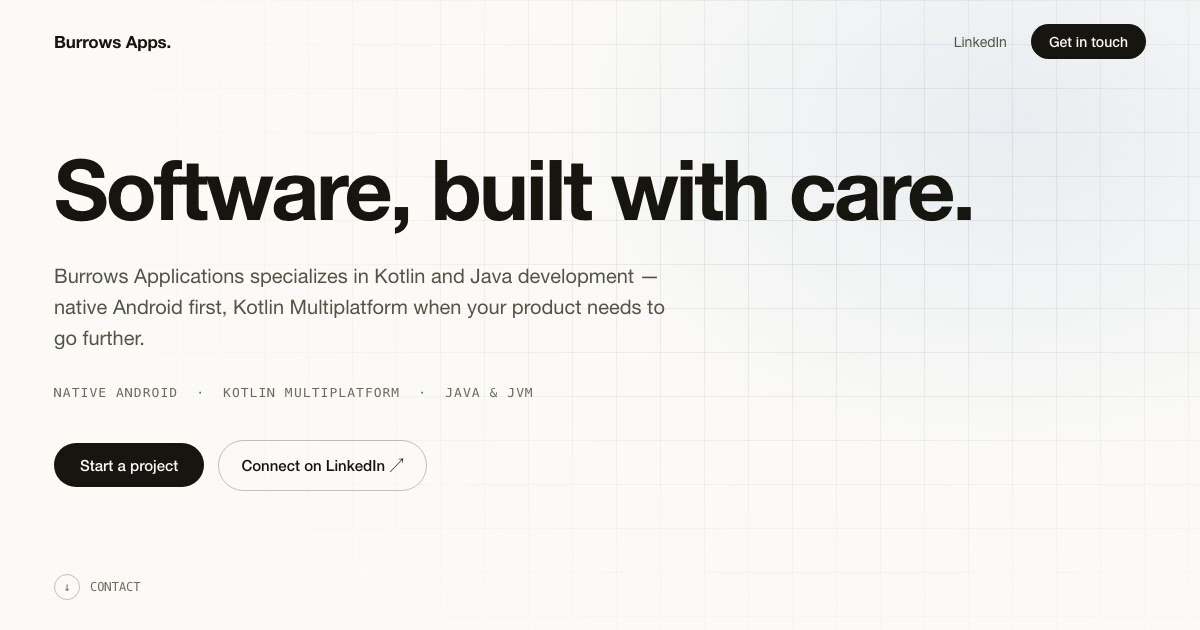
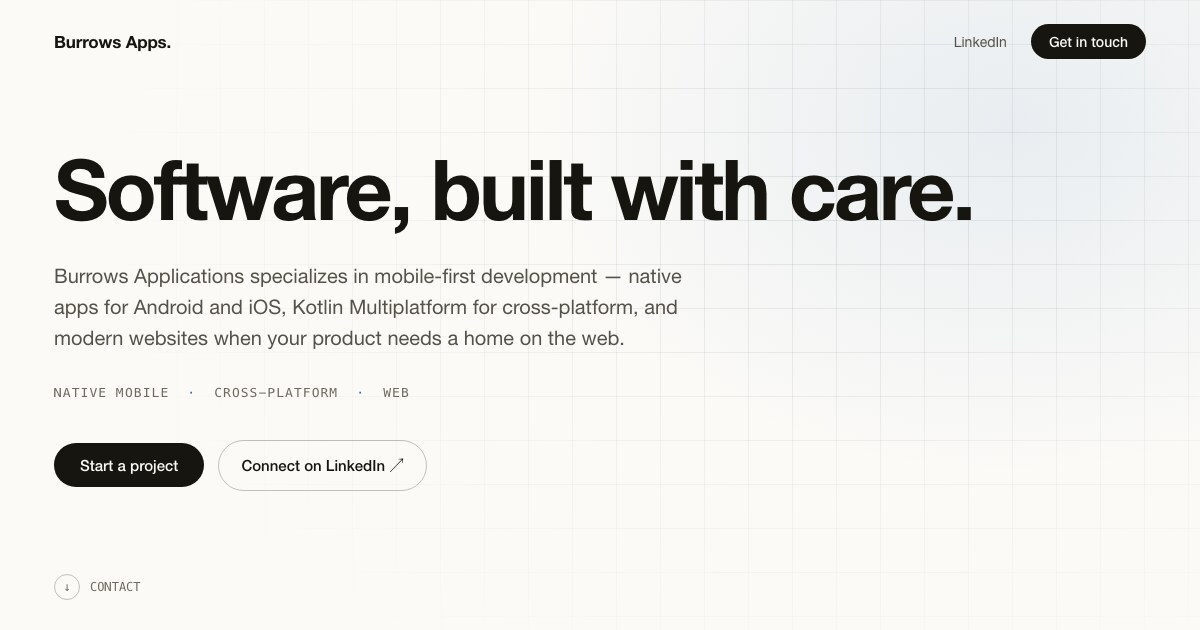
updates

diff --git a/privacy.html b/privacy.html
@@ -53,55 +53,144 @@
     <div class="page-inner">
       <div class="eyebrow">LEGAL</div>
       <h1>Privacy Policy.</h1>
-      <p class="page-updated">LAST REVISED · JULY 7, 2026</p>
+      <p class="page-updated">LAST REVISED · JULY 8, 2026</p>
 
-      <p>Burrows Applications ("we", "us") builds mobile applications and this website,
-        burrowsapps.com (the "Site"). This policy explains what information the Site and our
-        published apps (the "Apps") handle, and how. The short version: we collect as little as
-        possible, and we don't sell personal information.</p>
+      <h2>1. Introduction and scope</h2>
+      <p>Burrows Applications ("Burrows Applications," "we," "us," or "our") respects your
+        privacy and is committed to protecting it through our compliance with this Privacy
+        Policy (the "Policy"). This Policy describes the types of information we may collect,
+        receive, or process, and our practices for using, maintaining, protecting, and
+        disclosing that information, in connection with: (a) the website located at
+        burrowsapps.com, including any subdomains thereof (collectively, the "Site"); (b) any
+        and all software products, mobile applications, desktop applications, developer tools,
+        libraries, utilities, and other software we develop, publish, distribute, or maintain,
+        on any platform or through any distribution channel, whether now existing or hereafter
+        created (collectively, the "Products"); and (c) any related services, features, or
+        content we provide (together with the Site and the Products, the "Services").</p>
+      <p>By accessing or using any of the Services, you acknowledge that you have read and
+        understood this Policy and consent to the practices described herein. If you do not
+        agree with this Policy, your sole and exclusive remedy is to discontinue all access to
+        and use of the Services. This Policy does not apply to information collected by any
+        third party, including through any application, content, or website that may link to or
+        be accessible from the Services.</p>
 
-      <h2>What the Site collects</h2>
+      <h2>2. Information we collect through the Site</h2>
       <ul>
-        <li><strong>Analytics.</strong> The Site uses Google Analytics and Google Tag Manager to
-          understand traffic — pages viewed, approximate location, browser and device type. These
-          services set cookies and are governed by
+        <li><strong>Analytics data.</strong> The Site uses Google Analytics and Google Tag
+          Manager to collect usage information, including but not limited to pages viewed,
+          referring pages, approximate geographic location, browser type, operating system, and
+          device characteristics. These services may set and access cookies and similar tracking
+          technologies on your device, and their collection and processing of information is
+          governed by
           <a href="https://policies.google.com/privacy" target="_blank" rel="noopener">Google's
           privacy policy</a>.</li>
-        <li><strong>Contact form.</strong> If you use the contact form, the name, email address,
-          and message you enter are delivered to our inbox through a Cloudflare Worker. We use
-          them only to respond to you — they are not added to any mailing list or shared with
-          anyone else.</li>
+        <li><strong>Contact form submissions.</strong> If you voluntarily submit information
+          through the Site's contact form, we collect the name, email address, and message
+          contents you provide. Submissions are transmitted to our inbox by means of a
+          Cloudflare Worker and are processed subject to Cloudflare's applicable terms and
+          privacy documentation. We use such submissions solely to respond to and administer
+          your inquiry; they are not added to any marketing or mailing list and are not
+          disclosed to any third party except as set forth in Section 5.</li>
       </ul>
 
-      <h2>What the Apps collect</h2>
-      <p>Our Android apps are designed to run entirely on your device. They don't require an
-        account and don't collect personal information. Where an individual app has additional
-        data practices, they are disclosed in that app's Google Play listing and data-safety
-        section.</p>
+      <h2>3. Information we collect through the Products</h2>
+      <p>The Products are designed as a general matter to operate locally on your device. Unless
+        expressly disclosed otherwise for a specific Product, the Products do not require the
+        creation of an account, do not collect personal information, and do not transmit
+        personal information to us or to any third party at our direction. Where an individual
+        Product engages in additional data practices, those practices are disclosed in the
+        documentation, store listing, or data-safety disclosure applicable to that Product
+        (including, for Android applications, the applicable Google Play listing and Data
+        safety section), which disclosures are incorporated into this Policy by reference with
+        respect to that Product.</p>
+      <p>Please note that the platforms and distribution channels through which the Products are
+        made available (including, without limitation, Google Play) may independently collect
+        technical, diagnostic, installation, and crash information under their own terms and
+        privacy policies. We may receive such information only in aggregated or de-identified
+        form, and we do not control, and disclaim responsibility for, the collection practices
+        of such platforms.</p>
 
-      <h2>What we don't do</h2>
-      <ul>
-        <li>We don't sell personal information.</li>
-        <li>We don't run third-party advertising on the Site.</li>
-        <li>We don't ask for more data than a feature needs.</li>
-      </ul>
+      <h2>4. How we use information</h2>
+      <p>We use the information described in this Policy to: (a) respond to your inquiries and
+        provide requested support; (b) operate, maintain, analyze, and improve the Services;
+        (c) monitor and protect the security, integrity, and availability of the Services;
+        (d) comply with applicable law, regulation, legal process, or governmental request; and
+        (e) enforce our rights and agreements. Where required by applicable law, we rely on one
+        or more of the following legal bases for processing: your consent, our legitimate
+        interests in operating and improving the Services, and compliance with legal
+        obligations.</p>
 
-      <h2>Retention</h2>
-      <p>Messages sent through the contact form are kept only as long as needed to handle your
-        inquiry. Analytics data is retained according to Google Analytics' standard retention
-        settings.</p>
+      <h2>5. Disclosure of information</h2>
+      <p>We do not sell, rent, or trade personal information. We may disclose information:
+        (a) to service providers and processors (such as Google and Cloudflare) that perform
+        functions on our behalf, subject to their respective terms and privacy policies; (b) if
+        required to do so by law or in the good-faith belief that such action is necessary to
+        comply with a legal obligation, court order, or lawful governmental request; (c) to
+        establish, exercise, or defend legal claims, or to protect the rights, property, or
+        safety of Burrows Applications, our users, or others; and (d) in connection with any
+        merger, sale of assets, financing, reorganization, or acquisition of all or a portion of
+        our business, in which case information may be transferred as a business asset subject
+        to substantially similar protections.</p>
 
-      <h2>Third-party links</h2>
-      <p>The Site links to third-party services such as LinkedIn and X / Twitter. This policy
-        doesn't extend to those services — their own policies apply.</p>
+      <h2>6. Data retention</h2>
+      <p>We retain contact-form submissions only for so long as is reasonably necessary to
+        address and administer the relevant inquiry, after which they may be deleted in the
+        ordinary course. Analytics data is retained in accordance with Google Analytics'
+        standard retention settings. We may retain information for longer periods where
+        reasonably necessary to comply with legal obligations, resolve disputes, or enforce
+        agreements.</p>
 
-      <h2>Changes</h2>
-      <p>We may update this policy from time to time. The current version always lives at
+      <h2>7. Security</h2>
+      <p>We employ commercially reasonable administrative, technical, and organizational
+        measures designed to protect information within our control. However, no method of
+        transmission over the Internet or method of electronic storage is completely secure,
+        and we cannot and do not guarantee the absolute security of any information. Any
+        transmission of information is at your own risk.</p>
+
+      <h2>8. International transfers</h2>
+      <p>The Services are operated from the United States. If you access the Services from
+        outside the United States, you acknowledge that your information may be transferred to,
+        stored in, and processed in the United States and other jurisdictions whose data
+        protection laws may differ from those of your jurisdiction, and you consent to such
+        transfer, storage, and processing.</p>
+
+      <h2>9. Children's privacy</h2>
+      <p>The Services are not directed to children under the age of 13 (or such higher age as
+        applicable law may prescribe), and we do not knowingly collect personal information from
+        children. If you believe a child has provided personal information to us, please contact
+        us at the address below and we will take commercially reasonable steps to delete such
+        information.</p>
+
+      <h2>10. Your rights and choices</h2>
+      <p>Depending on your jurisdiction, you may have rights with respect to your personal
+        information, including the right to request access to, correction of, or deletion of
+        personal information we hold about you, and the right to object to or restrict certain
+        processing. You may exercise these rights by contacting us at the address in Section 13;
+        we will respond in accordance with applicable law. You may also limit analytics
+        collection through browser settings, cookie controls, or Google's opt-out tools.</p>
+
+      <h2>11. Third-party services and links</h2>
+      <p>The Services may contain links to, or otherwise interoperate with, third-party websites
+        and services, including LinkedIn, X / Twitter, and Google Play. This Policy does not
+        extend to, and we are not responsible for, the privacy practices of any third party.
+        Your interactions with such third parties are governed solely by their respective terms
+        and privacy policies, which we encourage you to review.</p>
+
+      <h2>12. Changes to this Policy</h2>
+      <p>We reserve the right, at our sole discretion, to change, modify, or otherwise amend
+        this Policy at any time. Modifications become effective immediately upon posting to the
+        Site. The then-current version of this Policy will at all times be available at
         <a href="https://burrowsapps.com/privacy.html">burrowsapps.com/privacy.html</a> with the
-        revision date shown above.</p>
+        revision date noted above, and you are encouraged to review it periodically. Your
+        continued use of any of the Services following the posting of a revised Policy
+        constitutes your acceptance of the revision. If any provision of this Policy is held to
+        be invalid or unenforceable, the remaining provisions will continue in full force and
+        effect. Section headings are for convenience only and have no legal or contractual
+        effect.</p>
 
-      <h2>Contact</h2>
-      <p>Questions about this policy or our privacy practices? Email
+      <h2>13. Contact</h2>
+      <p>If you have questions, comments, or concerns about this Policy or our privacy
+        practices, or wish to exercise any right described herein, contact us at
         <a href="mailto:contact@burrowsapps.com">contact@burrowsapps.com</a>.</p>
     </div>
   </main>

diff --git a/index.html b/index.html
@@ -23,7 +23,7 @@
 
   <title>Burrows Applications | Kotlin &amp; Android App Development</title>
   <meta name="description"
-        content="Burrows Applications specializes in Kotlin and Java development — native Android first, Kotlin Multiplatform when your product needs to go further.">
+        content="Burrows Applications specializes in mobile-first development — native apps for Android and iOS, Kotlin Multiplatform for cross-platform, and modern websites when your product needs a home on the web.">
   <meta name="author" content="Jared Burrows">
   <meta name="robots" content="index, follow">
   <link rel="canonical" href="https://burrowsapps.com/">
@@ -32,22 +32,22 @@
   <meta property="og:site_name" content="Burrows Applications">
   <meta property="og:title" content="Burrows Applications | Kotlin &amp; Android App Development">
   <meta property="og:description"
-        content="Burrows Applications specializes in Kotlin and Java development — native Android first, Kotlin Multiplatform when your product needs to go further.">
+        content="Burrows Applications specializes in mobile-first development — native apps for Android and iOS, Kotlin Multiplatform for cross-platform, and modern websites when your product needs a home on the web.">
   <meta property="og:url" content="https://burrowsapps.com/">
   <meta property="og:image" content="https://burrowsapps.com/static/img/og.jpg">
   <meta property="og:image:width" content="1200">
   <meta property="og:image:height" content="630">
   <meta property="og:image:alt"
-        content="Burrows Applications homepage hero reading 'Software, built with care.' — Kotlin &amp; Android app development.">
+        content="Burrows Applications homepage hero reading 'Software, built with care.' — mobile &amp; web app development.">
 
   <meta name="twitter:card" content="summary_large_image">
   <meta name="twitter:site" content="@burrowsapps">
   <meta name="twitter:title" content="Burrows Applications | Kotlin &amp; Android App Development">
   <meta name="twitter:description"
-        content="Burrows Applications specializes in Kotlin and Java development — native Android first, Kotlin Multiplatform when your product needs to go further.">
+        content="Burrows Applications specializes in mobile-first development — native apps for Android and iOS, Kotlin Multiplatform for cross-platform, and modern websites when your product needs a home on the web.">
   <meta name="twitter:image" content="https://burrowsapps.com/static/img/og.jpg">
   <meta name="twitter:image:alt"
-        content="Burrows Applications homepage hero reading 'Software, built with care.' — Kotlin &amp; Android app development.">
+        content="Burrows Applications homepage hero reading 'Software, built with care.' — mobile &amp; web app development.">
 
   <link rel="icon" href="/favicon.ico" sizes="48x48 32x32 16x16" type="image/x-icon">
   <link rel="apple-touch-icon" href="/static/img/apple-touch-icon.png">
@@ -63,12 +63,12 @@
     "alternateName": "Burrows Apps",
     "url": "https://burrowsapps.com/",
     "email": "contact@burrowsapps.com",
-    "description": "Burrows Applications specializes in Kotlin and Java development — native Android first, Kotlin Multiplatform when your product needs to go further.",
+    "description": "Burrows Applications specializes in mobile-first development — native apps for Android and iOS, Kotlin Multiplatform for cross-platform, and modern websites when your product needs a home on the web.",
     "founder": {
       "@type": "Person",
       "name": "Jared Burrows"
     },
-    "knowsAbout": ["Android app development", "Kotlin", "Kotlin Multiplatform", "Java"],
+    "knowsAbout": ["Android app development", "iOS app development", "Cross-platform development", "Web development", "Kotlin", "Kotlin Multiplatform", "Java"],
     "sameAs": [
       "https://x.com/burrowsapps",
       "https://www.linkedin.com/company/burrows-applications"
@@ -104,10 +104,11 @@
     <div class="hero">
       <div class="shell">
         <h1>Software, built with&nbsp;care.</h1>
-        <p class="lede">Burrows Applications specializes in Kotlin and Java development — native
-          Android first, Kotlin Multiplatform when your product needs to go further.</p>
+        <p class="lede">Burrows Applications specializes in mobile-first development — native apps
+          for Android and iOS, Kotlin Multiplatform for cross-platform, and modern websites when
+          your product needs a home on the web.</p>
         <div class="ticker" role="group" aria-label="Specialties">
-          <span>NATIVE ANDROID</span><span class="dot" aria-hidden="true">·</span><span>KOTLIN MULTIPLATFORM</span><span class="dot" aria-hidden="true">·</span><span>JAVA &amp; JVM</span>
+          <span>NATIVE MOBILE</span><span class="dot" aria-hidden="true">·</span><span>CROSS-PLATFORM</span><span class="dot" aria-hidden="true">·</span><span>WEB</span>
         </div>
         <div class="hero-ctas">
           <a class="pill" href="#contact">Start a project</a>
@@ -141,21 +142,21 @@
               <label for="cf-name">NAME</label>
               <input id="cf-name" name="name" type="text" placeholder="John Doe"
                      autocomplete="name" maxlength="200" required aria-describedby="cf-name-error">
-              <p class="field-error" id="cf-name-error" hidden></p>
+              <p class="field-error" id="cf-name-error"></p>
             </div>
             <div class="field">
               <label for="cf-email">EMAIL</label>
               <input id="cf-email" name="email" type="email" placeholder="you@company.com"
                      autocomplete="email" maxlength="254" required aria-describedby="cf-email-error"
                      pattern="[^@\s]+@[^@\s]+\.[^@\s]{2,}" title="Enter an email address like you@company.com">
-              <p class="field-error" id="cf-email-error" hidden></p>
+              <p class="field-error" id="cf-email-error"></p>
             </div>
           </div>
           <div class="field">
             <label for="cf-message">MESSAGE</label>
             <textarea id="cf-message" name="message" placeholder="Tell me about your project…"
                       rows="4" maxlength="5000" required aria-describedby="cf-message-error"></textarea>
-            <p class="field-error" id="cf-message-error" hidden></p>
+            <p class="field-error" id="cf-message-error"></p>
           </div>
           <div class="hp" aria-hidden="true">
             <label for="cf-company">Company</label>

diff --git a/static/css/home.css b/static/css/home.css
@@ -346,7 +346,7 @@ a { color: inherit; }
   min-width: 0;
 }
 
-.field-row + .field { margin-top: 18px; }
+.field-row + .field { margin-top: 0; }
 
 .field label {
   font-family: var(--mono), monospace;
@@ -375,8 +375,10 @@ a { color: inherit; }
   border-color: var(--accent);
 }
 
+/* Always occupies one line so errors appearing/clearing never shift the layout. */
 .field-error {
   margin: 0;
+  min-height: 1.4em;
   font-size: 13px;
   line-height: 1.4;
   color: #a33b2e;
@@ -401,7 +403,7 @@ a { color: inherit; }
 }
 
 .form-card button {
-  margin-top: 20px;
+  margin-top: 10px;
   width: 100%;
   background: var(--ink);
   color: var(--bg);

diff --git a/static/js/home.js b/static/js/home.js
@@ -44,7 +44,6 @@
     input.closest('.field').classList.toggle('invalid', Boolean(message));
     input.setAttribute('aria-invalid', message ? 'true' : 'false');
     error.textContent = message;
-    error.hidden = !message;
   };
 
   const validate = () => {
